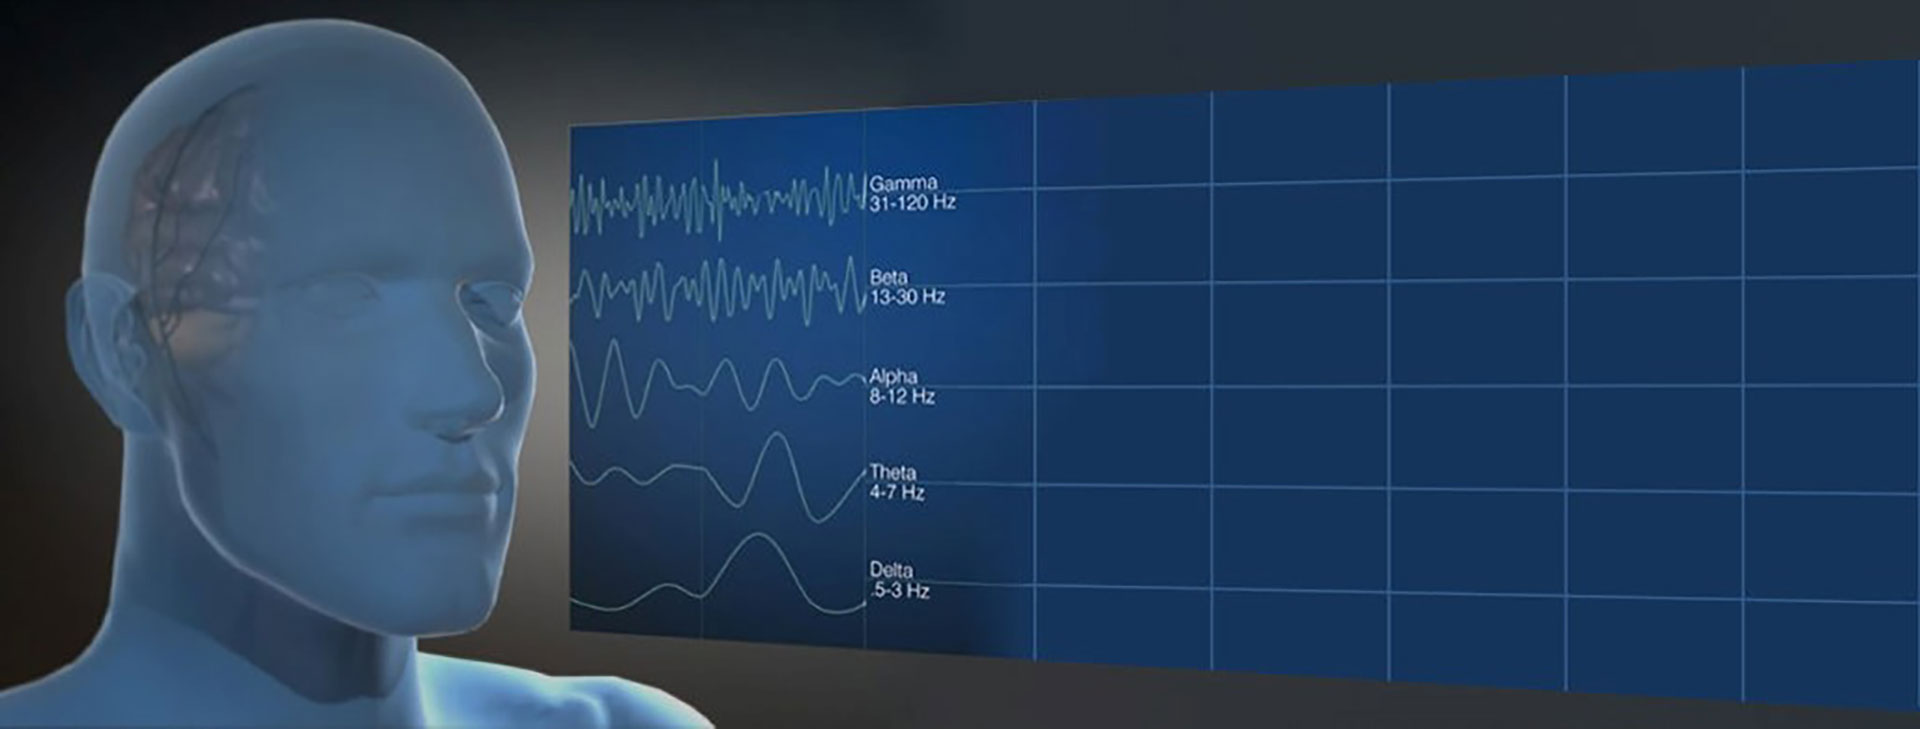
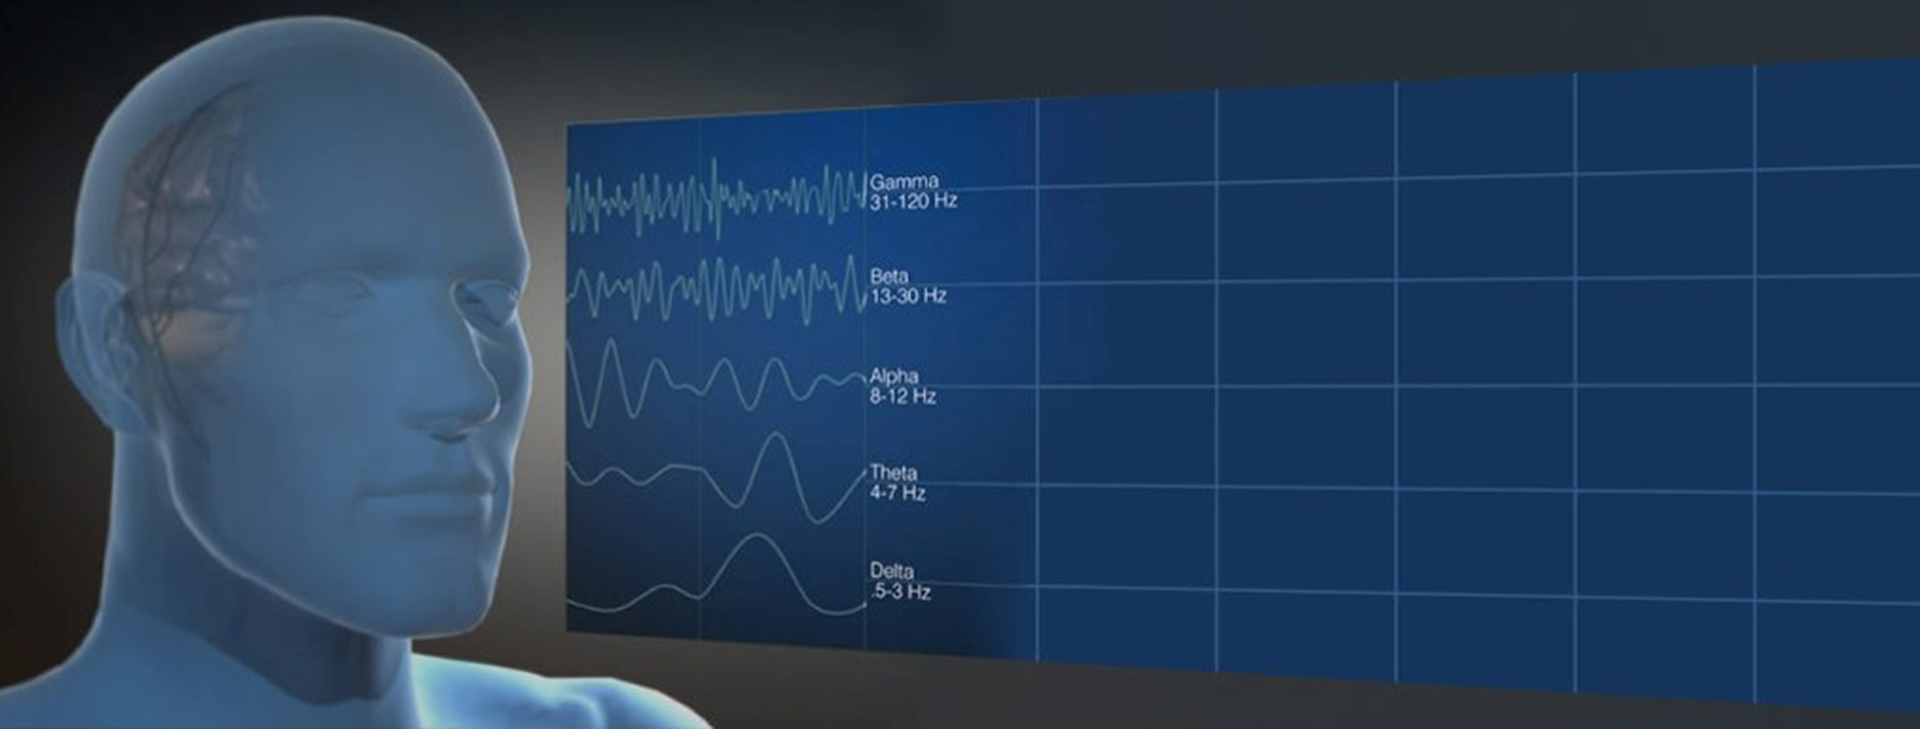
add new pics for what is sahaja meditation

diff --git a/public/sahajaMeditation2.html b/public/sahajaMeditation2.html
@@ -173,7 +173,7 @@
 
     <div class="carousel-inner">
       <div class="carousel-item active sahaja-meditation2-section-wrapper">
-        <img src="assets/Images/sahajaMedit/Picture2.jpg"  class="img-header-medt overlay" alt="مدیتیشن ساهاجا یوگا چیست ؟؟">
+        <img src="assets/Images/sahajaMedit/Picture2.jpg" class="d-block  img-header-medt" alt="مدیتیشن ساهاجا یوگا چیست ؟؟">
         <!--Sidle 1-->
           <div class="carousel-caption">
           
@@ -195,7 +195,7 @@
         <img src="assets/Images/sahajaMedit/Picture3.jpg" class="d-block  img-header-medt" alt="مدیتیشن ساهاجا یوگا چیست ؟؟">
         <div class="carousel-caption ">
 
-          <h2 style="color:#e7e3dc;bottom: 20px;left: 0;text-shadow: 2px 2px 5px #060f16;">
+          <h2 style="color:#e7e3dc; bottom: 20px;left: 0;text-shadow: 2px 2px 5px #060f16;">
             مدیتیشن ساهاج، برای همه انسانها تجربه مکاشفات قدیسین گذشته را بدون هیچ ریاضتی امکانپذیر کرده است.
           </h2> 
         </div>
@@ -286,7 +286,7 @@
 
     <div class="carousel-inner">
       <div class="carousel-item active sahaja-meditation2-section-wrapper">
-        <img src="assets/Images/sahajaMedit/Picture13.jpg"  class="img-header-medt overlay" alt="مدیتیشن ساهاجا یوگا چیست ؟؟">
+        <img src="assets/Images/sahajaMedit/Picture13.jpg" class="d-block  img-header-medt" alt="مدیتیشن ساهاجا یوگا چیست ؟؟">
         <!--Sidle 1-->
           <div class="carousel-caption ">
             <h2 style="color:#dfd9d9;bottom: 10px;left: 0;text-shadow: 1px 1px 5px #33251c;" data-aos="fade-down-right"  data-aos-duration="4000">

diff --git a/public/assets/CSS/_sahajaMeditation.css b/public/assets/CSS/_sahajaMeditation.css
@@ -94,12 +94,8 @@
 }
 
 .img-header-medt {
-  min-height: 85vh;
+  min-height: 83vh;
   width: 100%;
-}
-
-.img-header-medt.overlay {
-  filter: brightness(0.75);
 }
 
 .sahaja-meditation2-section-wrapper .animeh1 {
